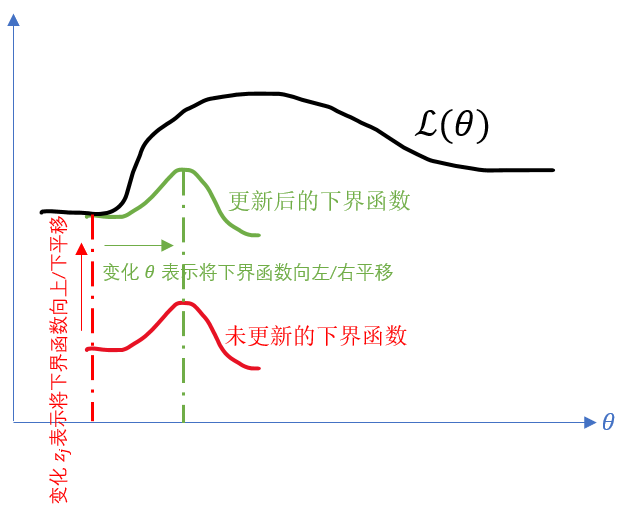
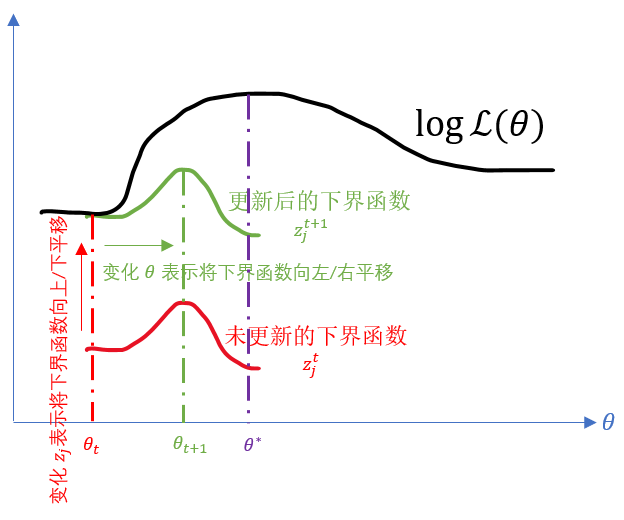
update basic knowledge of EM

diff --git a/_posts/2023-12-02-blog-em.md b/_posts/2023-12-02-blog-em.md
@@ -89,8 +89,15 @@ $$\begin{align}\sum_{i=1}^nlog\sum_{z_j}Q(z_j)\dfrac{p(x_i,z_j;\theta)}{Q(z_j)} 
 而对数似然函数的整体值始终不变，我们只是通过提高下界函数的整体值来筛除掉 $log\ \mathcal{L}(\theta)$ 中不符合下界函数条件的 $\theta$</span>，
 即我们抛弃满足如下不等式的 $\theta: \exists z_j, log\ \mathcal{L}(\theta) < \sum_{i=1}^n\sum_{z_j}Q(z_j)log\dfrac{p(x_i,z_j;\theta)}{Q(z_j)}$)。如下图所示：</p>
 
-<img src="https://cai-jianfeng.github.io/images/em_algorithm.png">
+<img src="https://cai-jianfeng.github.io/images/em_algorithm.png" style="alignment: center">
 
-<p style="text-align:justify; text-justify:inter-ideograph;">可以看到改变 $z_j$ 可以改变下界函数的整体值，我们希望下界函数越靠上越好，但是最上只能和对数似然函数 $log\ \mathcal{L}(\theta)$ 相切(即红色线，由于上述的不等式原因)；
-而改变 $\theta$ 可以改变在下界函数上的取值，我们希望取到当前下界函数的越大值越好，但是最大只能到下界函数的最大值(即绿色线，由于下界函数本身原因)。
-因此，我们的目的就是通过求解 $z_j$ 使得下界函数和对数似然函数相切；同时求解 $\theta$ 使得取到下界函数的最大值，此时获得的 $\theta$ 既是最有可能的分布参数值。</p>
+<p style="text-align:justify; text-justify:inter-ideograph;">可以看到改变 $z_j$ 可以改变下界函数的整体值，我们希望下界函数越靠上越好，
+但是最上只能和对数似然函数 $log\ \mathcal{L}(\theta)$ 相切(即红色线($z_j^t \rightarrow z_j^{t+1}$)，由于上述的不等式原因)；
+而改变 $\theta$ 可以改变在下界函数上的取值，我们希望取到当前下界函数的越大值越好，但是最大只能到下界函数的最大值(即绿色线($\theta_t \rightarrow \theta_{t+1}$)，由于下界函数本身原因)。
+因此，我们的目的就是通过求解 $z_j$ 使得下界函数和对数似然函数相切；同时求解 $\theta$ 使得取到下界函数的最大值，此时获得的 $\theta$ 既是最有可能的分布参数值，这就是 EM 算法。
+具体而言，</p>
+
+<ol><li><p style="text-align:justify; text-justify:inter-ideograph;">先固定 $\theta$，调整 $z_j$，使得下界函数整体值上升，即上升至与 $log\ \mathcal{L}(\theta)$ 的曲线相切处(图中红色字体)；</p></li>
+<li><p style="text-align:justify; text-justify:inter-ideograph;">再固定 $z_j$，调整 $\theta$，使得取到下界函数的最大值(图中绿色字体)。
+此时，由于 $\theta$ 更新，下界函数的形状也发生变化(即第一步得到的 $z_j$ 已经不能满足相切条件)；</p></li>
+<li><p style="text-align:justify; text-justify:inter-ideograph;">然后根据新的下界函数，再重复上述 $2$ 个步骤，直到收敛到 $log\ \mathcal{L}(\theta)$ 的最大值处 $\theta^*$ (图中紫色字体)。</li></ol>
